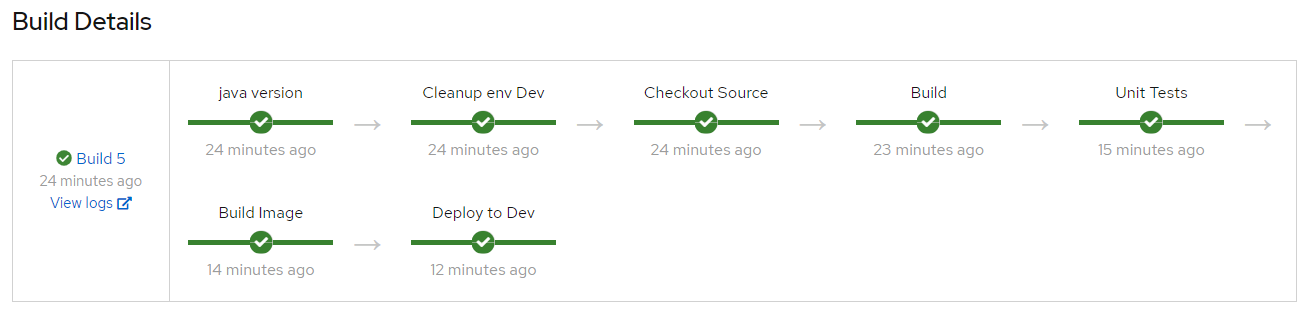
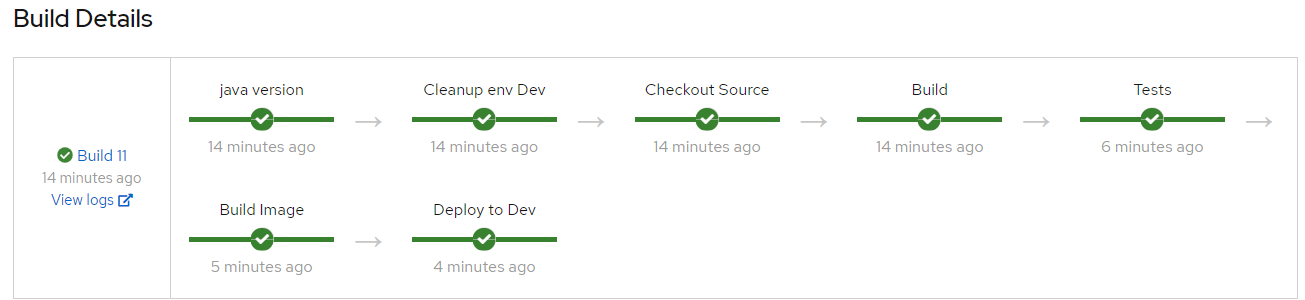
mod resource for pipeline

diff --git a/pipeline.md b/pipeline.md
@@ -49,9 +49,10 @@ $ oc new-build --name=testapp-pipeline --strategy=pipeline https://github.com/rh
 
 対応したこと
 - masterブランチ作成
-- maven.compiler.source/targetを1.8に変更
+- maven.compiler.source/targetを1.8に変更（->JAVA_HOME指定により回避）
 - TestDatabaseをコメントアウト
-- labelを変更？
+- %testを実DB接続設定に変更
+- labelを変更
 
 
 log
